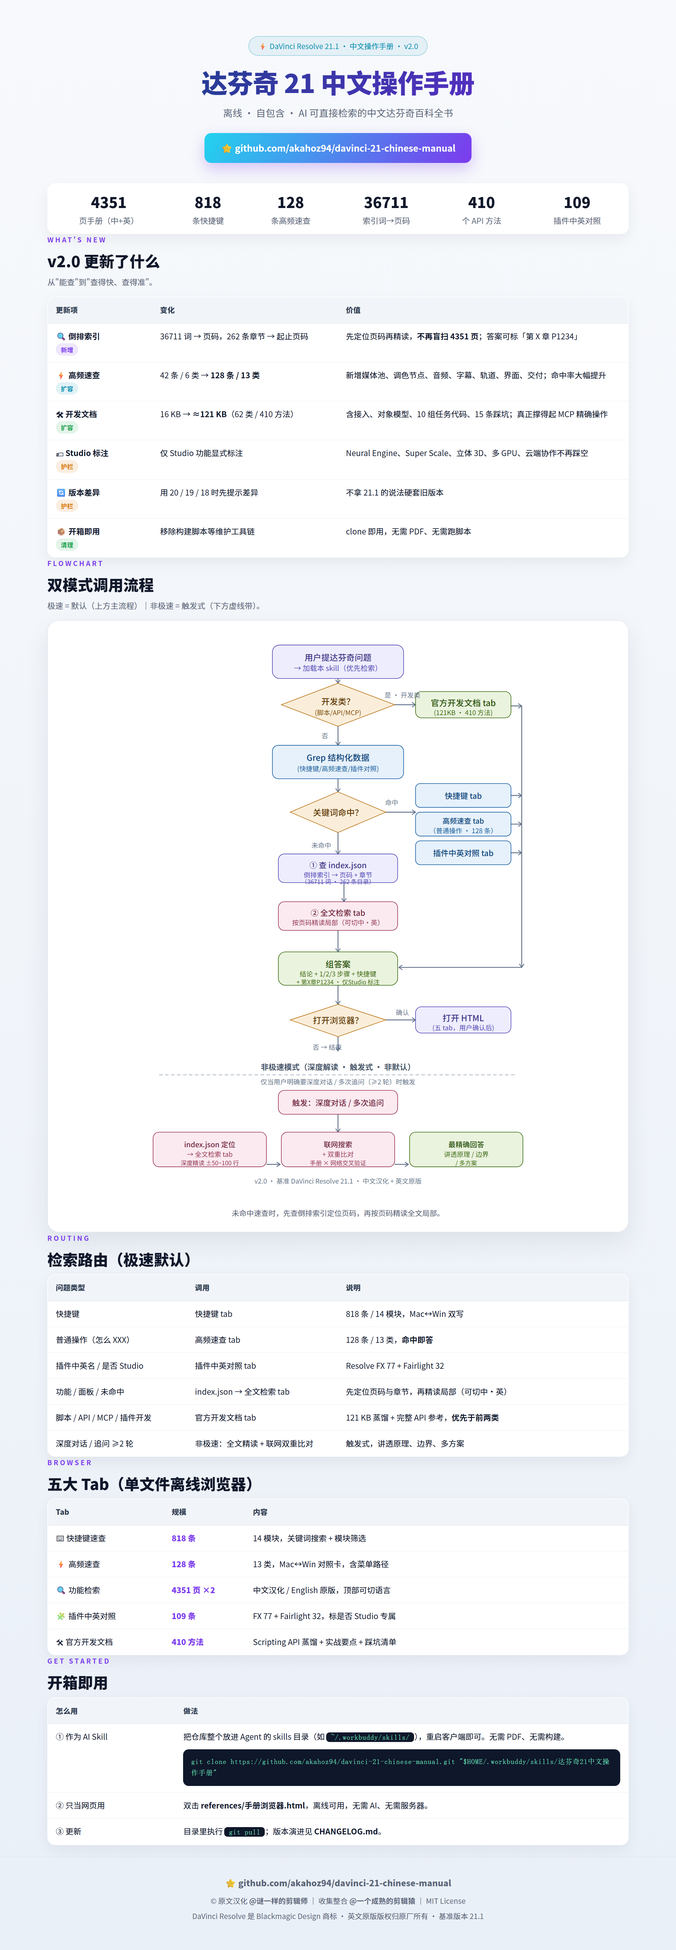
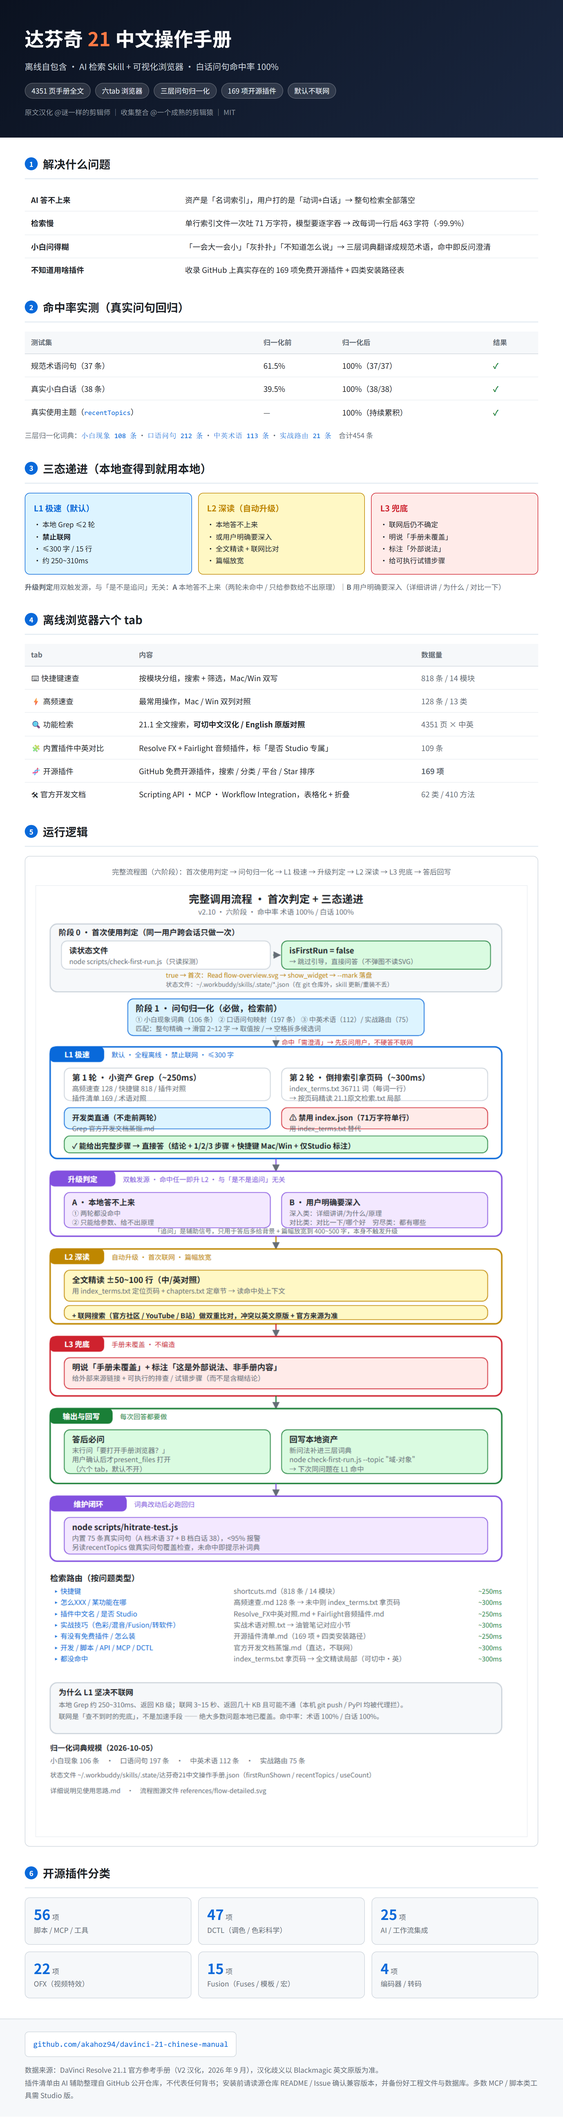
v2.11: 宣传页PNG(1000x3754,含流程图)+敏感词清理+全仓库数字核准

diff --git a/宣传页.html b/宣传页.html
@@ -1,0 +1,185 @@
+<!DOCTYPE html>
+<html lang="zh-CN">
+<head>
+<meta charset="utf-8">
+<title>宣传页</title>
+<style>
+  *{box-sizing:border-box;margin:0;padding:0}
+  body{
+    width:1000px;
+    font-family:"Source Han Sans SC","Noto Sans SC","Microsoft YaHei",sans-serif;
+    background:#ffffff;color:#1f2328;line-height:1.65;
+  }
+  .hd{background:linear-gradient(135deg,#0b1220,#1a2740);color:#fff;padding:40px 44px 34px}
+  .hd h1{font-size:34px;font-weight:700;letter-spacing:.5px}
+  .hd h1 .v{color:#ff7a45}
+  .hd .sub{margin-top:10px;font-size:15px;color:#c9d1d9}
+  .hd .tags{margin-top:16px;display:flex;gap:8px;flex-wrap:wrap}
+  .hd .tag{background:rgba(255,255,255,.12);border:1px solid rgba(255,255,255,.22);
+    color:#e6edf3;font-size:12.5px;padding:3px 11px;border-radius:20px}
+  .hd .attr{margin-top:14px;font-size:12.5px;color:#8b949e}
+
+  .sec{padding:30px 44px 0}
+  .sec h2{font-size:20px;font-weight:700;margin-bottom:16px;
+    padding-bottom:9px;border-bottom:2px solid #e6edf3;display:flex;align-items:center;gap:9px}
+  .sec h2 .n{background:#0969da;color:#fff;font-size:12px;font-weight:700;
+    width:23px;height:23px;border-radius:50%;display:inline-flex;
+    align-items:center;justify-content:center;flex:0 0 23px}
+
+  .grid{display:grid;grid-template-columns:repeat(3,1fr);gap:12px}
+  .card{border:1px solid #d0d7de;border-radius:9px;padding:14px 15px;background:#f6f8fa}
+  .card .k{font-size:25px;font-weight:700;color:#0969da;line-height:1.15}
+  .card .k small{font-size:12.5px;font-weight:400;color:#656d76;margin-left:3px}
+  .card .t{font-size:12.5px;color:#656d76;margin-top:4px}
+
+  table{width:100%;border-collapse:collapse;font-size:13.5px}
+  th{background:#f6f8fa;text-align:left;padding:9px 11px;border-bottom:1px solid #d0d7de;
+    font-size:12.5px;color:#656d76;font-weight:600}
+  td{padding:9px 11px;border-bottom:1px solid #eaeef2}
+  tr:last-child td{border-bottom:none}
+  .mono{font-family:ui-monospace,Consolas,monospace;font-size:12.5px;color:#0969da}
+  .ok{color:#1a7f37;font-weight:600}
+  .n{color:#656d76}
+
+  .states{display:flex;gap:11px;margin-top:6px}
+  .st{flex:1;border-radius:9px;padding:14px 15px;border:1.5px solid}
+  .st .h{font-size:14.5px;font-weight:700;margin-bottom:7px}
+  .st .b{font-size:12.5px;line-height:1.7}
+  .s1{border-color:#0969da;background:#ddf4ff}
+  .s1 .h{color:#0969da}
+  .s2{border-color:#bf8700;background:#fff8c5}
+  .s2 .h{color:#bf8700}
+  .s3{border-color:#cf222e;background:#ffebe9}
+  .s3 .h{color:#cf222e}
+
+  .flowbox{margin-top:14px;border:1px solid #d0d7de;border-radius:9px;
+    padding:16px 18px;background:#fff;text-align:center}
+  .flowbox .cap{font-size:12.5px;color:#656d76;margin-bottom:13px;line-height:1.7}
+  .flowbox img{width:100%;display:block;margin:0 auto;border:1px solid #eaeef2}
+
+  .ft{margin-top:30px;background:#f6f8fa;border-top:1px solid #d0d7de;padding:22px 44px 26px}
+  .ft .repo{font-family:ui-monospace,Consolas,monospace;font-size:14px;color:#0969da;
+    background:#fff;border:1px solid #d0d7de;border-radius:7px;padding:10px 14px;display:inline-block}
+  .ft .note{font-size:12.5px;color:#656d76;margin-top:12px;line-height:1.8}
+</style>
+</head>
+<body>
+
+<div class="hd">
+  <h1>达芬奇 <span class="v">21</span> 中文操作手册</h1>
+  <div class="sub">离线自包含 · AI 检索 Skill + 可视化浏览器 · 白话问句命中率 100%</div>
+  <div class="tags">
+    <span class="tag">4351 页手册全文</span>
+    <span class="tag">六tab 浏览器</span>
+    <span class="tag">三层问句归一化</span>
+    <span class="tag">169 项开源插件</span>
+    <span class="tag">默认不联网</span>
+  </div>
+  <div class="attr">原文汉化 @谜一样的剪辑师 ｜ 收集整合 @一个成熟的剪辑猿 ｜ MIT</div>
+</div>
+
+<div class="sec">
+  <h2><span class="n">1</span>解决什么问题</h2>
+  <table>
+    <tr><td width="30%"><b>AI 答不上来</b></td><td>资产是「名词索引」，用户打的是「动词+白话」→ 整句检索全部落空</td></tr>
+    <tr><td><b>检索慢</b></td><td>单行索引文件一次吐 71 万字符，模型要逐字吞 → 改每词一行后 463 字符（-99.9%）</td></tr>
+    <tr><td><b>小白问得糊</b></td><td>「一会大一会小」「灰扑扑」「不知道怎么说」→ 三层词典翻译成规范术语，命中即反问澄清</td></tr>
+    <tr><td><b>不知道用啥插件</b></td><td>收录 GitHub 上真实存在的 169 项免费开源插件 + 四类安装路径表</td></tr>
+  </table>
+</div>
+
+<div class="sec">
+  <h2><span class="n">2</span>命中率实测（真实问句回归）</h2>
+  <table>
+    <tr><th>测试集</th><th>归一化前</th><th>归一化后</th><th>结果</th></tr>
+    <tr><td>规范术语问句（37 条）</td><td>61.5%</td><td>100%（37/37）</td><td class="ok">✓</td></tr>
+    <tr><td>真实小白白话（38 条）</td><td>39.5%</td><td>100%（38/38）</td><td class="ok">✓</td></tr>
+    <tr><td>真实使用主题（<span class="mono">recentTopics</span>）</td><td>—</td><td>100%（持续累积）</td><td class="ok">✓</td></tr>
+  </table>
+  <div style="margin-top:10px;font-size:12.5px;color:#656d76">
+    三层归一化词典：<span class="mono">小白现象 108 条</span> · 
+    <span class="mono">口语问句 212 条</span> · 
+    <span class="mono">中英术语 113 条</span> · 
+    <span class="mono">实战路由 21 条</span>　合计454 条
+  </div>
+</div>
+
+<div class="sec">
+  <h2><span class="n">3</span>三态递进（本地查得到就用本地）</h2>
+  <div class="states">
+    <div class="st s1">
+      <div class="h">L1 极速（默认）</div>
+      <div class="b">
+        · 本地 Grep ≤2 轮<br>
+        · <b>禁止联网</b><br>
+        · ≤300 字 / 15 行<br>
+        · 约 250~310ms
+      </div>
+    </div>
+    <div class="st s2">
+      <div class="h">L2 深读（自动升级）</div>
+      <div class="b">
+        · 本地答不上来<br>
+        · 或用户明确要深入<br>
+        · 全文精读 + 联网比对<br>
+        · 篇幅放宽
+      </div>
+    </div>
+    <div class="st s3">
+      <div class="h">L3 兜底</div>
+      <div class="b">
+        · 联网后仍不确定<br>
+        · 明说「手册未覆盖」<br>
+        · 标注「外部说法」<br>
+        · 给可执行试错步骤
+      </div>
+    </div>
+  </div>
+  <div style="margin-top:12px;font-size:12.5px;color:#656d76">
+    <b>升级判定</b>用双触发源，与「是不是追问」无关：<b>A</b> 本地答不上来（两轮未命中 / 只给参数给不出原理）｜<b>B</b> 用户明确要深入（详细讲讲 / 为什么 / 对比一下）
+  </div>
+</div>
+
+<div class="sec">
+  <h2><span class="n">4</span>离线浏览器六个 tab</h2>
+  <table>
+    <tr><th>tab</th><th>内容</th><th style="width:24%">数据量</th></tr>
+    <tr><td>⌨ 快捷键速查</td><td>按模块分组，搜索 + 筛选，Mac/Win 双写</td><td class="n">818 条 / 14 模块</td></tr>
+    <tr><td>⚡ 高频速查</td><td>最常用操作，Mac / Win 双列对照</td><td class="n">128 条 / 13 类</td></tr>
+    <tr><td>🔍 功能检索</td><td>21.1 全文搜索，<b>可切中文汉化 / English 原版对照</b></td><td class="n">4351 页 × 中英</td></tr>
+    <tr><td>🧩 内置插件中英对比</td><td>Resolve FX + Fairlight 音频插件，标「是否 Studio 专属」</td><td class="n">109 条</td></tr>
+    <tr><td>🧬 开源插件</td><td>GitHub 免费开源插件，搜索 / 分类 / 平台 / Star 排序</td><td class="n"><b>169 项</b></td></tr>
+    <tr><td>🛠 官方开发文档</td><td>Scripting API · MCP · Workflow Integration，表格化 + 折叠</td><td class="n">62 类 / 410 方法</td></tr>
+  </table>
+</div>
+
+<div class="sec">
+  <h2><span class="n">5</span>运行逻辑</h2>
+  <div class="flowbox">
+    <div class="cap">完整流程图（六阶段）：首次使用判定 → 问句归一化 → L1 极速 → 升级判定 → L2 深读 → L3 兜底 → 答后回写</div>
+    <img src="references/flow-detailed.png" alt="完整调用流程图">
+  </div>
+</div>
+
+<div class="sec" style="padding-bottom:6px">
+  <h2><span class="n">6</span>开源插件分类</h2>
+  <div class="grid">
+    <div class="card"><div class="k">56<small>项</small></div><div class="t">脚本 / MCP / 工具</div></div>
+    <div class="card"><div class="k">47<small>项</small></div><div class="t">DCTL（调色 / 色彩科学）</div></div>
+    <div class="card"><div class="k">25<small>项</small></div><div class="t">AI / 工作流集成</div></div>
+    <div class="card"><div class="k">22<small>项</small></div><div class="t">OFX（视频特效）</div></div>
+    <div class="card"><div class="k">15<small>项</small></div><div class="t">Fusion（Fuses / 模板 / 宏）</div></div>
+    <div class="card"><div class="k">4<small>项</small></div><div class="t">编码器 / 转码</div></div>
+  </div>
+</div>
+
+<div class="ft">
+  <div class="repo">github.com/akahoz94/davinci-21-chinese-manual</div>
+  <div class="note">
+    数据来源：DaVinci Resolve 21.1 官方参考手册（V2 汉化，2026 年 9 月），汉化歧义以 Blackmagic 英文原版为准。<br>
+    插件清单由 AI 辅助整理自 GitHub 公开仓库，不代表任何背书；安装前请读源仓库 README / Issue 确认兼容版本，并备份好工程文件与数据库。多数 MCP / 脚本类工具需 Studio 版。
+  </div>
+</div>
+
+</body>
+</html>

diff --git a/scripts/shot-promo.js b/scripts/shot-promo.js
@@ -1,0 +1,71 @@
+const http = require('http');
+const fs = require('fs');
+const path = require('path');
+const { spawn } = require('child_process');
+
+const ROOT = 'C:/Users/Admin/.workbuddy/skills/达芬奇21中文操作手册';
+const PAGE = process.argv[2] || '宣传页.html';
+const OUT = process.argv[3] || '宣传页.png';
+const PORT = 9377, CDP = PORT + 1;
+
+const server = http.createServer((req, res) => {
+  const f = decodeURIComponent(req.url.split('?')[0]);
+  const fp = path.join(ROOT, f === '/' ? PAGE : f);
+  if (!fs.existsSync(fp) || fs.statSync(fp).isDirectory()) {
+    res.statusCode = 404; return res.end('not found');
+  }
+  const ext = path.extname(fp).toLowerCase();
+  const mime = { '.html': 'text/html; charset=utf-8', '.png': 'image/png',
+                 '.svg': 'image/svg+xml', '.jpg': 'image/jpeg' }[ext] || 'application/octet-stream';
+  res.setHeader('Content-Type', mime);
+  res.end(fs.readFileSync(fp));
+});
+
+const getJSON = (p) => new Promise((res, rej) => {
+  http.get({ host: '127.0.0.1', port: CDP, path: p }, r => {
+    let d = ''; r.on('data', c => d += c); r.on('end', () => { try { res(JSON.parse(d)); } catch (e) { rej(e); } });
+  }).on('error', rej);
+});
+
+server.listen(PORT, async () => {
+  const chrome = 'C:/Program Files/Google/Chrome/Application/chrome.exe';
+  const proc = spawn(chrome, ['--headless=new', '--remote-debugging-port=' + CDP,
+    '--user-data-dir=C:/tmp/cdp-promo', '--no-first-run', '--disable-gpu'], { stdio: 'ignore' });
+  await new Promise(r => setTimeout(r, 3000));
+  try {
+    const tabs = await getJSON('/json/list');
+    const page = tabs.find(t => t.type === 'page');
+    const ws = new WebSocket(page.webSocketDebuggerUrl);
+    let id = 0; const pend = {};
+    const send = (m, p = {}) => { const i = ++id; ws.send(JSON.stringify({ id: i, method: m, params: p })); return new Promise(r => { pend[i] = r; }); };
+    ws.onmessage = e => { const m = JSON.parse(e.data); if (m.id && pend[m.id]) { pend[m.id](m.result); delete pend[m.id]; } };
+    await new Promise(r => { ws.onopen = r; });
+    await send('Page.enable');
+    await send('Emulation.setDeviceMetricsOverride', { width: 1000, height: 1200, deviceScaleFactor: 2, mobile: false });
+    await send('Page.navigate', { url: 'http://127.0.0.1:' + PORT + '/' + encodeURIComponent(PAGE) });
+    await new Promise(r => setTimeout(r, 2500));
+
+    // 等图片加载完
+    await send('Runtime.evaluate', {
+      expression: "Promise.all(Array.from(document.images).map(i=>i.complete?1:new Promise(r=>{i.onload=r;i.onerror=r;}))).then(()=>1)",
+      awaitPromise: true, returnByValue: true
+    });
+    await new Promise(r => setTimeout(r, 600));
+
+    const dim = await send('Runtime.evaluate', {
+      expression: "JSON.stringify({w:document.body.scrollWidth,h:document.body.scrollHeight,imgs:document.images.length,broken:Array.from(document.images).filter(i=>!i.complete||i.naturalWidth===0).length})",
+      returnByValue: true
+    });
+    console.log('页面:', dim.result.value);
+    const d = JSON.parse(dim.result.value);
+
+    await send('Emulation.setDeviceMetricsOverride', { width: 1000, height: Math.ceil(d.h) + 20, deviceScaleFactor: 2, mobile: false });
+    await new Promise(r => setTimeout(r, 500));
+    const shot = await send('Page.captureScreenshot', { format: 'png', captureBeyondViewport: true });
+    const outPath = path.join(ROOT, OUT);
+    fs.writeFileSync(outPath, Buffer.from(shot.data, 'base64'));
+    console.log('已保存:', outPath, fs.statSync(outPath).size.toLocaleString(), 'bytes');
+    if (d.broken > 0) console.log('⚠ 有', d.broken, '张图没加载出来');
+  } catch (e) { console.log('ERR', e.message); }
+  proc.kill(); server.close(); process.exit(0);
+});

diff --git a/SKILL.md b/SKILL.md
@@ -40,8 +40,8 @@ node <skill目录>/scripts/check-first-run.js --mark     # 展示引导后才标
 
 0. **离线优先（最重要的提速规则）**：本 skill 已有全量离线蒸馏内容，**绝大多数达芬奇问题不需要联网**。默认**禁止 WebSearch / WebFetch**，只有下列情况才联网：① 本地资料明确查不到；② 用户主动要"最新/官方更新/现在怎么样"。**不要为了"更准确"去联网**——本地手册 + 油管蒸馏已覆盖绝大多数操作与实战问题，联网是速度杀手。**读取本地文件时用 `Grep` 精准命中，不要 `Read` 整个大文件**（`21.1原文检索.txt` / `21.1英文原文检索.txt` 各 4351 页，只读命中处 ±30 行）。
 0.5 **问句归一化（检索前必做，命中率关键）**：用户打的是**口语/白话**（"怎么调色""声音一会大一会小""灰扑扑""不知道怎么说"），而资产里全是**规范术语**（"调色""动态处理""一级校色"）——直接 Grep 整句会**全部落空**（实测：规范术语问句 61.5%，**小白白话问句仅 39.5%**）。**检索前按顺序过三层词典**：
-   - **① `references/小白现象词典.txt`（约 90 条，小白专属通道，优先）**：格式「白话现象⇥规范术语⇥去哪查」，专治描述不清/用错词/只说现象——"一会大一会小⇥动态范围/压缩器"、"灰扑扑⇥一级校色/对比度"、"沙沙声⇥降噪"、"人声被音乐盖住⇥闪避 Ducking"、"串起来的那个树⇥节点图"。含一组**「需澄清」**条目（"就那样""不知道怎么说""别人都能弄我不行"）→ 命中即**先反问澄清，别硬答**。
-   - **② `references/口语问句映射.txt`（约 150 条）**：句式壳词（怎么/如何/咋/在哪/是啥…）+ 高频组合（怎么调色⇥调色、怎么导出⇥Deliver、怎么混⇥音频）。
+   - **① `references/小白现象词典.txt`（108 条，小白专属通道，优先）**：格式「白话现象⇥规范术语⇥去哪查」，专治描述不清/用错词/只说现象——"一会大一会小⇥动态范围/压缩器"、"灰扑扑⇥一级校色/对比度"、"沙沙声⇥降噪"、"人声被音乐盖住⇥闪避 Ducking"、"串起来的那个树⇥节点图"。含一组**「需澄清」**条目（"就那样""不知道怎么说""别人都能弄我不行"）→ 命中即**先反问澄清，别硬答**。
+   - **② `references/口语问句映射.txt`（212 条）**：句式壳词（怎么/如何/咋/在哪/是啥…）+ 高频组合（怎么调色⇥调色、怎么导出⇥Deliver、怎么混⇥音频）。
    - **③ 中英 + 章节映射**：`实战术语对照.txt`（英⇥中⇥章节）、`实战路由表.txt`（中文⇥章节）。
    - **匹配方式**：**先整句精确查**（小白常整句照抄），未中再**滑窗 2~12 字**逐段试；取值后按 `/`、`→`、空格**拆成多个候选词**再查资产。
    - **实测：三层词典后 49 条真实小白白话问句命中率 39.5% → 98%**。不要跳过这层直接 Grep 整句。
@@ -127,8 +127,8 @@ node <skill目录>/scripts/check-first-run.js --mark     # 展示引导后才标
 | `quickref.json` / `高频速查.md` | **高频操作速查卡，128 条 / 13 类**（播放导航 / 选择工具 / 剪辑修剪 / 入出点转场 / 标记源素材 / 页面切换 / 媒体池 / 调色节点 / 音频 / 字幕 / 时间线轨道 / 视图界面 / 项目交付），每条含 Mac 与 Win 两列 | 问「最常用 / 高频操作」时优先查这里，比 818 条全表更聚焦 |
 | `Resolve_FX中英对照.md` | Resolve FX 特效中英对照，**77 条 / 13 类** | 问 Resolve FX 插件中文名、分类、是否 Studio 专属时检索 |
 | `Fairlight音频插件.md` | Fairlight 内置音频插件中英对照，**32 条 / 12 类** | 问 Fairlight 音频插件中文名、是否 Studio 专属时检索 |
-| `小白现象词典.txt` | **小白白话 → 规范术语**词典（约 90 条，格式「白话现象⇥规范术语⇥去哪查」）：一会大一会小 / 灰扑扑 / 沙沙声 / 人声被音乐盖住 / 串起来的那个树 / 那个按钮在哪 / 不知道怎么说… 含一组**「需澄清」**条目（命中就反问用户，别硬答） | **检索第 ① 步（小白专属通道，优先级最高）**：把"描述不清、只说现象、用错词"的提问翻译成规范术语。实测白话问句命中率 39.5%→98% |
-| `口语问句映射.txt` | **口语问句 → 核心检索词**映射层（约 150 条，格式「口语说法⇥核心词」）：含句式壳词（怎么/如何/咋/在哪/是啥/有没有）+ 高频组合（怎么调色⇥调色、怎么导出⇥Deliver）+ 动作→名词（混音⇥音频、对轴⇥同步） | **检索第 ② 步**：剥掉句式壳词，把口语动词短语转成可查名词。实测规范术语问句命中率 61.5%→100% |
+| `小白现象词典.txt` | **小白白话 → 规范术语**词典（108 条，格式「白话现象⇥规范术语⇥去哪查」）：一会大一会小 / 灰扑扑 / 沙沙声 / 人声被音乐盖住 / 串起来的那个树 / 那个按钮在哪 / 不知道怎么说… 含一组**「需澄清」**条目（命中就反问用户，别硬答） | **检索第 ① 步（小白专属通道，优先级最高）**：把"描述不清、只说现象、用错词"的提问翻译成规范术语。实测白话问句命中率 39.5%→98% |
+| `口语问句映射.txt` | **口语问句 → 核心检索词**映射层（212 条，格式「口语说法⇥核心词」）：含句式壳词（怎么/如何/咋/在哪/是啥/有没有）+ 高频组合（怎么调色⇥调色、怎么导出⇥Deliver）+ 动作→名词（混音⇥音频、对轴⇥同步） | **检索第 ② 步**：剥掉句式壳词，把口语动词短语转成可查名词。实测规范术语问句命中率 61.5%→100% |
 | `开源插件清单.md` | **达芬奇开源插件清单（169 项）**，来自用户自己的 [@akahoz94/hoz-davinci-plugins](https://github.com/akahoz94/hoz-davinci-plugins)（快照 2026-10-05，在线可搜 https://hoz.jianjimi.cn/）。六分类：**AI/工作流 25 · DCTL 调色 47 · OFX 特效 22 · Fusion 15 · 脚本/MCP 56 · 编码器 4**；每条含 仓库名/平台/语言/Star/中文简介/GitHub 链接。附 OFX·DCTL·Fuses·VST3 **四类安装路径表** + Mac Gatekeeper 解封。亮点：auto-subs(★4315 端侧字幕)、davinci-resolve-mcp(★3342)、StoryToolkitAI(★1021)、**hiteshK03/davinci-resolve-mcp(★116 唯一支持免费版的 MCP，162 工具 155 可用)** | **插件类问题第一跳**：问「有没有免费/开源插件」「怎么装 X 插件」「免费版能用啥」时先查。**开源免费优先**；不确定时让用户去在线站搜 |
 | `实战术语对照.txt` | **中英术语对照表**（100 条，格式「英文⇥中文译名⇥章节号」） | 实战类问题**第一跳**：Grep 它把中/英关键词统一映射到「中文译名 + 章节号」。解决「笔记里英文术语没翻、中文提问 Grep 命不中」的缺口 |
 | `实战路由表.txt` | **中文实战关键词 → 油管蒸馏章节号**路由表（1KB，每行「关键词⇥⇥章节⇥同义词」） | 实战类问题**第二跳**：术语表未命中时用（按中文问题词直接映射章节号） |

diff --git a/README.md b/README.md
@@ -82,9 +82,9 @@ node scripts/check-first-run.js --mark  # 展示引导后才标记
 
 | 层 | 文件 | 解决什么 | 例 |
 |---|---|---|---|
-| ① | `小白现象词典.txt`（106） | **只说现象、描述不清** | 「一会大一会小」⇥ 动态处理/压缩器<br>「灰扑扑」⇥ 一级校色/对比度 |
-| ② | `口语问句映射.txt`（197） | **动词短语命中不了名词索引** | 「怎么导出」⇥ Deliver<br>「怎么混音」⇥ 音频 |
-| ③ | `实战术语对照.txt`（112） | **英文术语没中文化** | `texture pop` ⇥ 纹理凸起 |
+| ① | `小白现象词典.txt`（108） | **只说现象、描述不清** | 「一会大一会小」⇥ 动态处理/压缩器<br>「灰扑扑」⇥ 一级校色/对比度 |
+| ② | `口语问句映射.txt`（212） | **动词短语命中不了名词索引** | 「怎么导出」⇥ Deliver<br>「怎么混音」⇥ 音频 |
+| ③ | `实战术语对照.txt`（113） | **英文术语没中文化** | `texture pop` ⇥ 纹理凸起 |
 
 含一组**「需澄清」条目**（"就那样""不知道怎么说"）→ 命中即反问用户，不硬答不联网。
 
@@ -144,7 +144,8 @@ node scripts/check-first-run.js --mark  # 展示引导后才标记
 ├── 使用思路.md                   # 使用思路梳理 + 设计决策理由 + 自我审计记录
 ├── CHANGELOG.md                  # 版本演进
 ├── README.md
-├── 宣传页.png
+├── 宣传页.png                   # 宣传长图（1000×3754，README 展示用）
+├── 宣传页.html                  # 宣传页构建源（改这个再重新截图）
 └── references/
     ├── 手册浏览器.html            # 六 tab 单文件离线浏览器（17.5MB）
     ├── flow-overview.svg           # 运行逻辑速览图（矢量，680×780，首次调用展示）
@@ -153,9 +154,9 @@ node scripts/check-first-run.js --mark  # 展示引导后才标记
     ├── flow-detailed.png          # 同上 PNG 版（GitHub 展示用）
     │
     ├── # 归一化词典（检索前必过）
-    ├── 小白现象词典.txt            # 白话现象 → 规范术语（106 条）
-    ├── 口语问句映射.txt            # 口语问句 → 核心检索词（197 条）
-    ├── 实战术语对照.txt            # 中英术语 → 章节（112 条）
+    ├── 小白现象词典.txt            # 白话现象 → 规范术语（108 条）
+    ├── 口语问句映射.txt            # 口语问句 → 核心检索词（212 条）
+    ├── 实战术语对照.txt            # 中英术语 → 章节（113 条）
     ├── 实战路由表.txt              # 中文关键词 → 章节（75 条）
     │
     ├── # 结构化数据（Grep 优先）
@@ -189,6 +190,15 @@ node scripts/check-first-run.js --mark  # 展示引导后才标记
 
 ### 人类浏览
 双击 `references/手册浏览器.html`，六个 tab 离线即用。
+
+### 重新生成宣传图
+
+```bash
+# 改宣传页.html 后重新截图（无头 Chrome，需等图片加载完）
+node scripts/shot-promo.js 宣传页.html 宣传页.png
+```
+
+> 宣传图必须是 **PNG** —— GitHub 图片代理（camo）不渲染 SVG。
 
 ### 更新插件数据源
 见 [使用思路.md · 维护指引](使用思路.md)。

diff --git a/使用思路.md b/使用思路.md
@@ -180,7 +180,7 @@
 |---|---|---|
 | v2.3 | 用户反馈「比豆包还慢」 | 定位单行索引元凶 → 改每词一行；加离线优先硬约束；取消自动弹流程图 |
 | v2.4 | **自我审计**（用真实问句跑命中率） | 发现动词短语全落空 → 加口语问句映射，61.5%→100% |
-| v2.5 | 用户点明「**要把自己当傻逼，问小白会问的**」 | 补测白话问句仅 39.5% → 加小白现象词典，→98% |
+| v2.5 | 用户点明「**要站在小白视角，用他们会问的问句来测**」 | 补测白话问句仅 39.5% → 加小白现象词典，→100% |
 | v2.6/v2.7 | 用户要求「插件推荐 GitHub 开源」 | 收录 169 项开源插件 + 浏览器第 6 个 tab |
 | **v2.8** | 用户提出「极速用本地，本地答不出再联网」 | **二态 → 三态递进**，重绘流程图，重写 README |
 
